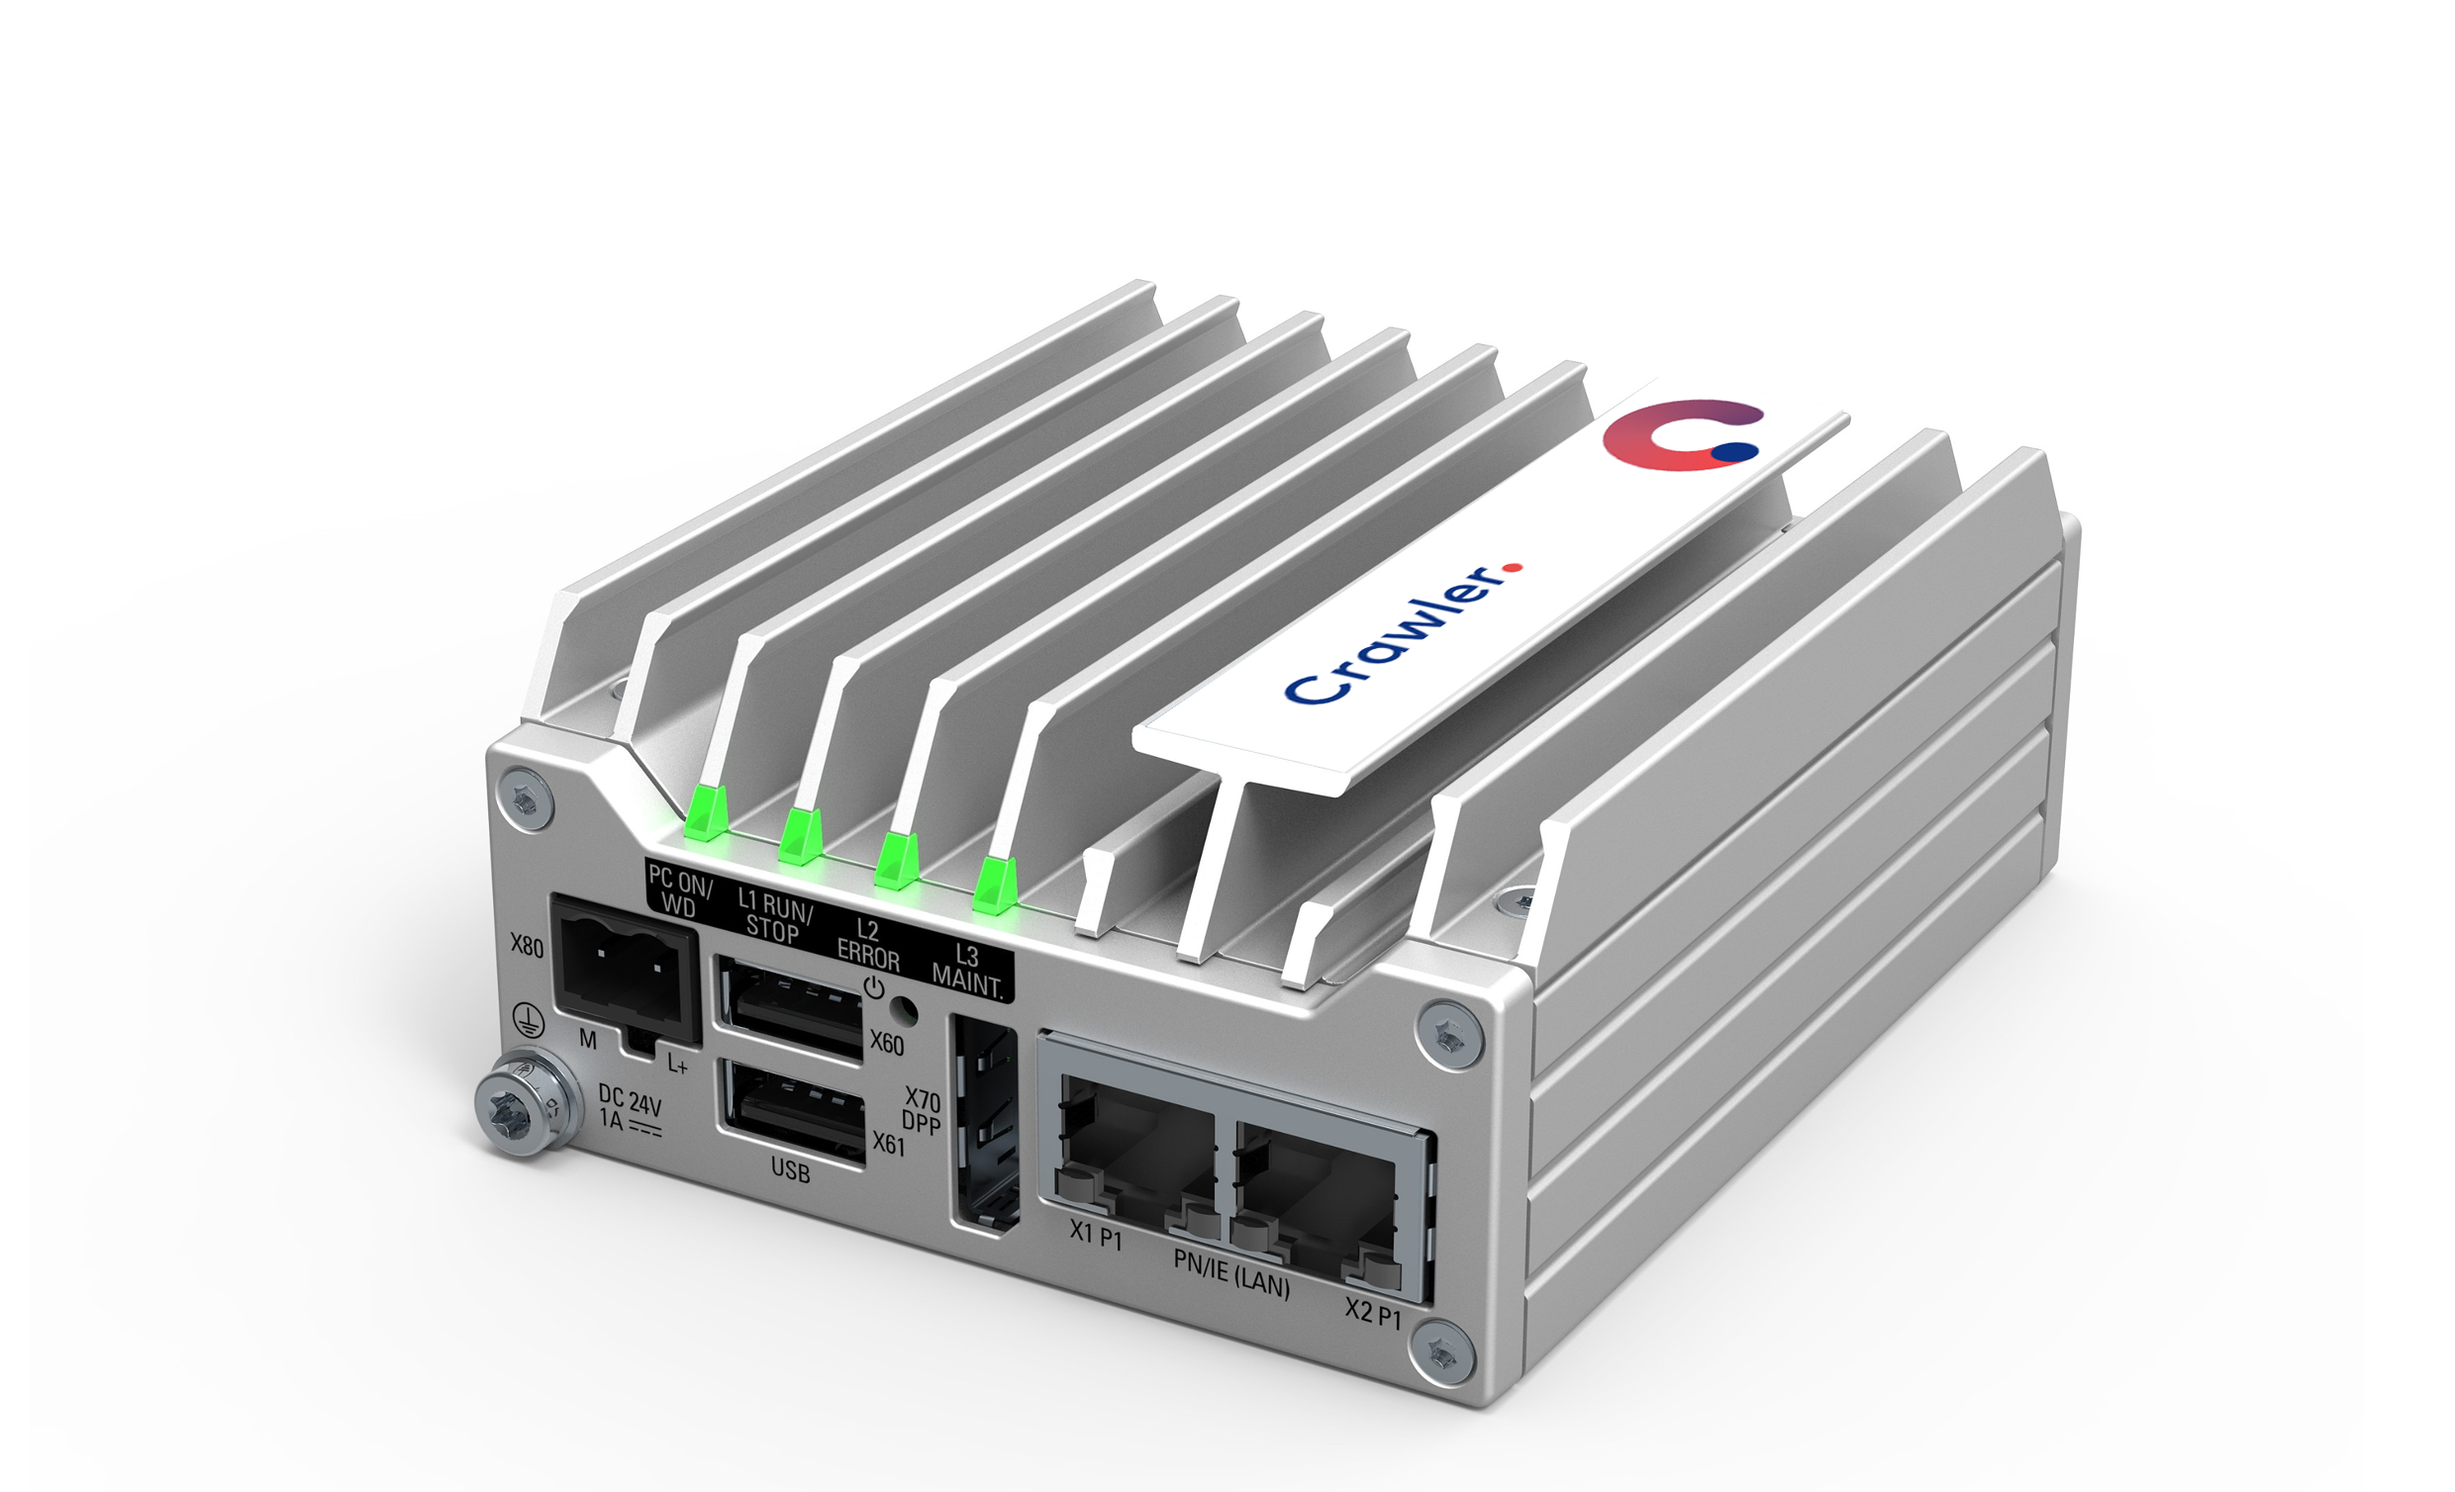
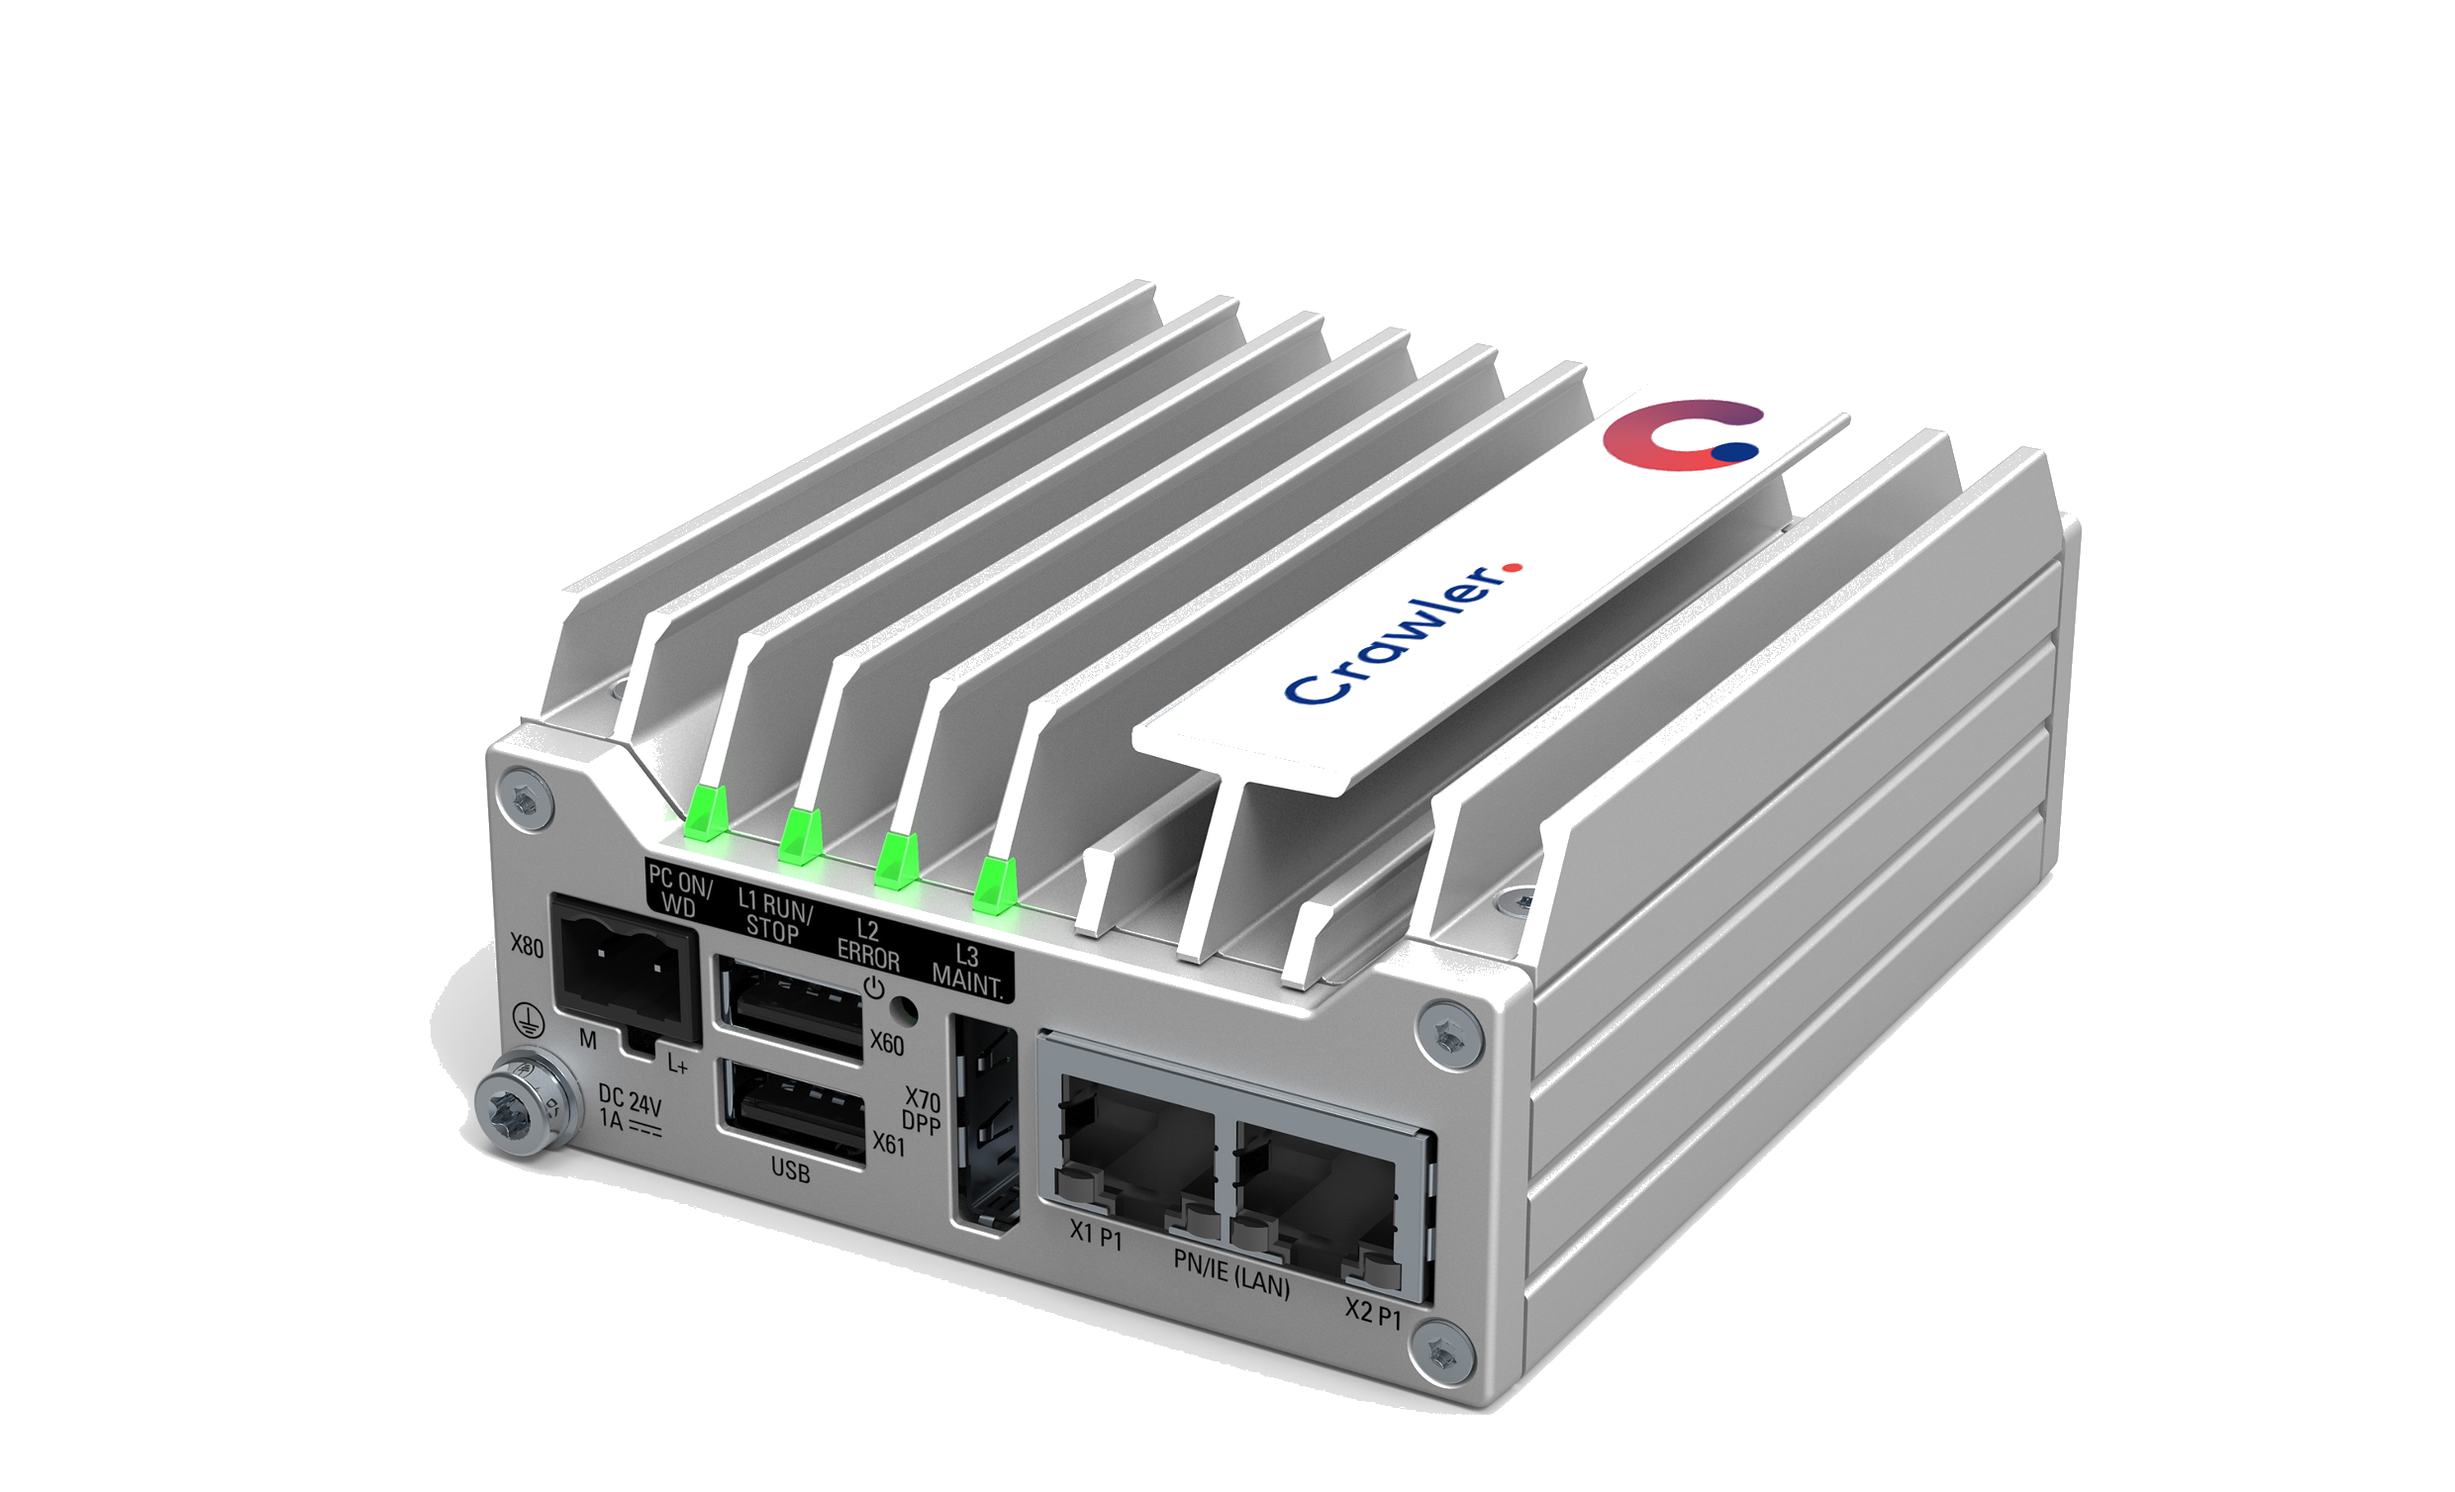
feat(edge): redesign overview page with hero, feature grid, platform cards, and CTA
- Replaces WIP caution callout with full Hub/Companion-style overview layout
- Adds companion-intro section, 6-card feature grid, platform variants (IPC127E, WAGO, VM), safety notes
- Adds Quickstart CTA button in hero
- Updated body text: OPC UA, extensible app concept, scalability
- Adds transparent background to edge-device.png
- Adds new screenshots: dashboard, Node-RED, Grafana, Einstellungen
- Adds CSS for platform-grid, page-hero-cta, settings-grid, vertical text centering
- EN + DE

diff --git a/src/styles/custom.css b/src/styles/custom.css
@@ -1872,7 +1872,7 @@ starlight-toc a {
   padding: 0 2rem 2.5rem 2.5rem;
   display: flex;
   flex-direction: column;
-  justify-content: flex-start;
+  justify-content: center;
   gap: 1.5rem;
 }
 .page-hero-lead {
@@ -1894,6 +1894,100 @@ starlight-toc a {
   margin-bottom: 0.75rem !important;
 }
 .page-hero-body p:last-child { margin-bottom: 0 !important; }
+.page-hero-cta {
+  display: inline-flex;
+  align-items: center;
+  gap: 0.4rem;
+  margin-top: 0.25rem;
+  padding: 0.55rem 1.1rem;
+  background: var(--sl-color-accent);
+  color: #fff !important;
+  border-radius: 6px;
+  font-size: 0.95rem;
+  font-weight: 600;
+  text-decoration: none !important;
+  transition: opacity 0.15s ease;
+}
+.page-hero-cta:hover { opacity: 0.85; }
+.platform-grid {
+  display: grid !important;
+  grid-template-columns: repeat(3, 1fr);
+  gap: 1rem;
+  margin-block: 1.5rem;
+  align-items: stretch;
+}
+.platform-grid > p,
+.platform-grid > p:empty { display: none !important; }
+.platform-card > p:empty { display: none !important; }
+.platform-card {
+  border: 1px solid var(--sl-color-gray-5);
+  border-radius: 8px;
+  padding: 1.1rem 1.25rem;
+  min-height: 100px;
+  display: flex !important;
+  flex-direction: column;
+  align-self: stretch !important;
+  margin-top: 0 !important;
+  box-sizing: border-box;
+}
+.platform-card {
+  border: 1px solid var(--sl-color-gray-5);
+  border-radius: 8px;
+  padding: 1.1rem 1.25rem;
+}
+.platform-card-title {
+  font-weight: 700;
+  font-size: 0.95rem;
+  margin-bottom: 0.35rem;
+  color: var(--sl-color-text-accent);
+}
+.platform-card p {
+  font-size: 0.875rem;
+  color: var(--sl-color-gray-2);
+  margin: 0;
+}
+@media (max-width: 720px) {
+  .platform-grid { grid-template-columns: 1fr; }
+}
+.settings-grid {
+  display: grid;
+  grid-template-columns: repeat(2, 1fr);
+  gap: 0.6rem;
+  margin-block: 1.25rem 0;
+}
+.settings-grid > p { display: none !important; }
+.settings-item {
+  display: flex;
+  gap: 0.75rem;
+  align-items: flex-start;
+  padding: 0.75rem 1rem;
+  border: 1px solid var(--sl-color-gray-5);
+  border-radius: 8px;
+  box-sizing: border-box;
+}
+.settings-item-icon {
+  font-size: 1.25rem;
+  flex-shrink: 0;
+  line-height: 1.4;
+}
+.settings-item-body {
+  display: flex;
+  flex-direction: column;
+  gap: 0.15rem;
+}
+.settings-item-title {
+  font-weight: 700;
+  font-size: 0.875rem;
+  color: var(--sl-color-text);
+}
+.settings-item-desc {
+  font-size: 0.8rem;
+  color: var(--sl-color-gray-2);
+  margin: 0;
+}
+@media (max-width: 720px) {
+  .settings-grid { grid-template-columns: 1fr; }
+}
 .page-hero-reverse {
   grid-template-columns: 1fr 2fr;
   min-height: auto;
